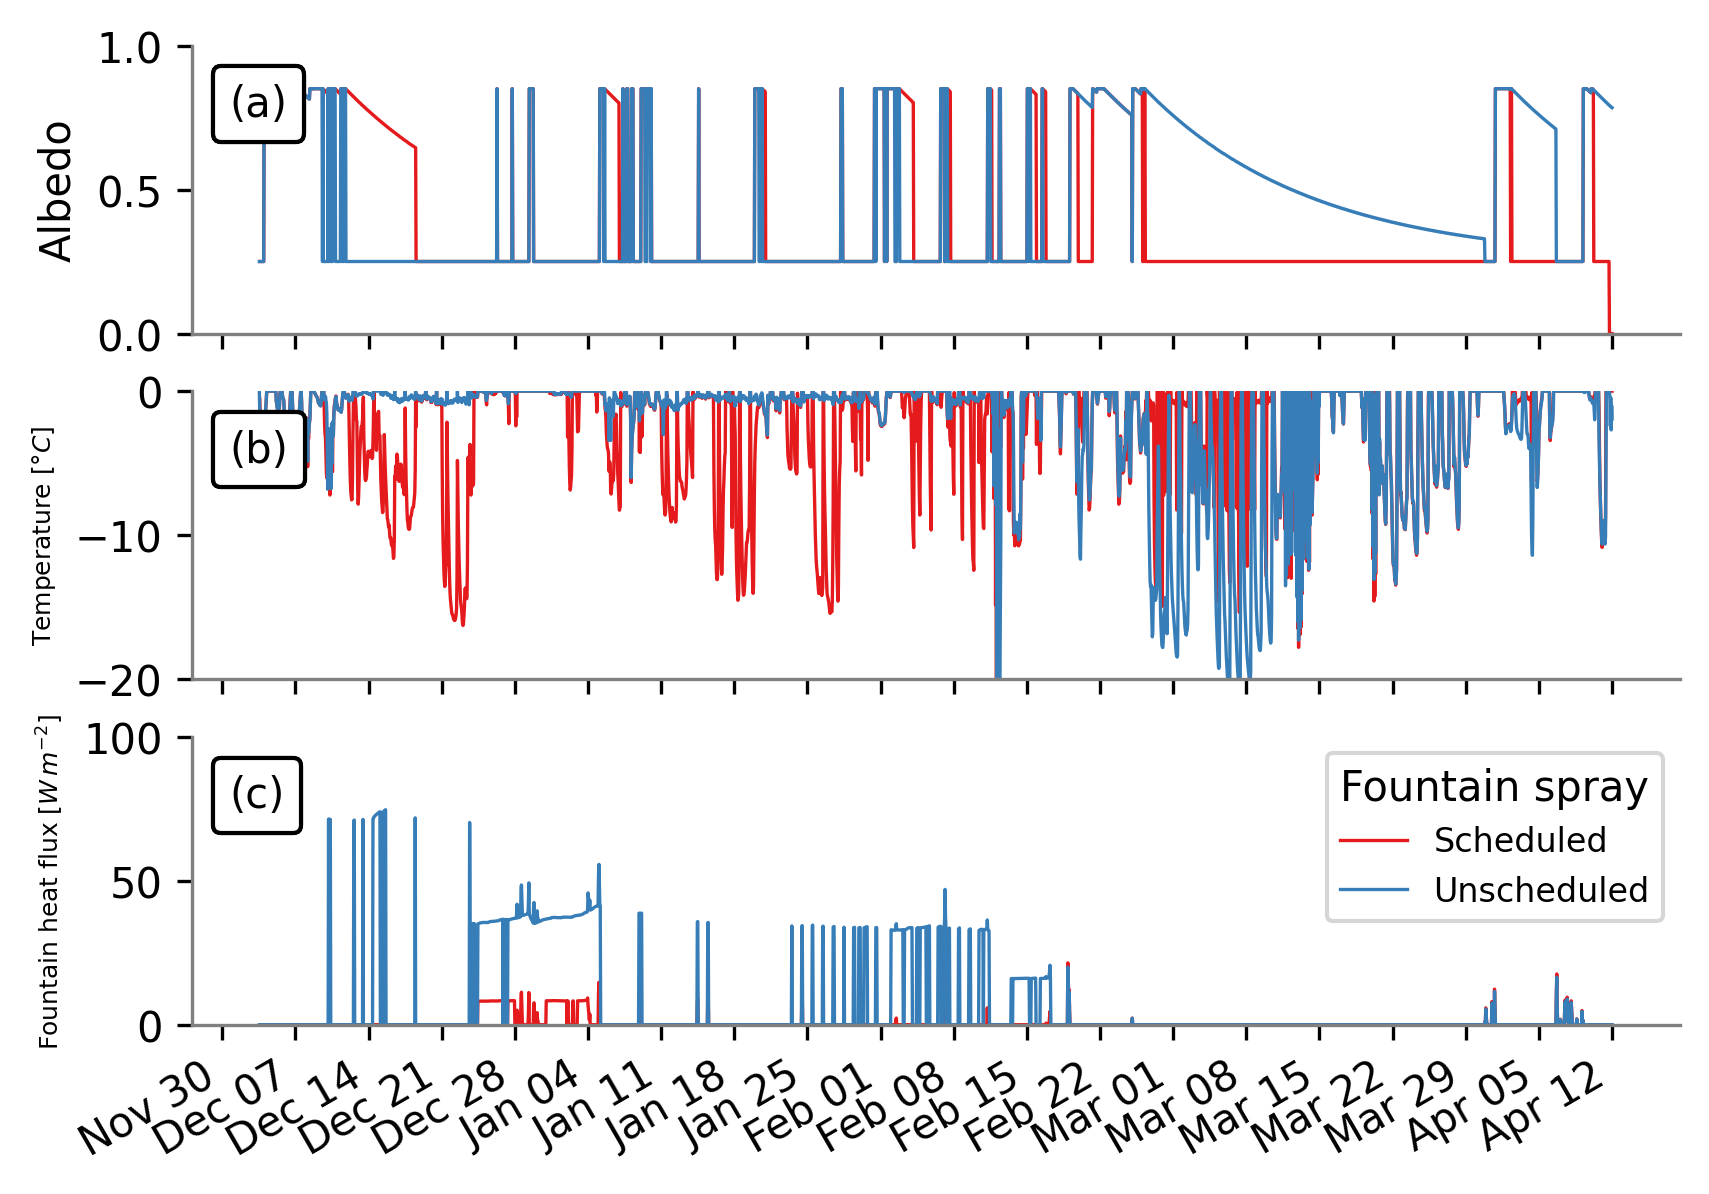
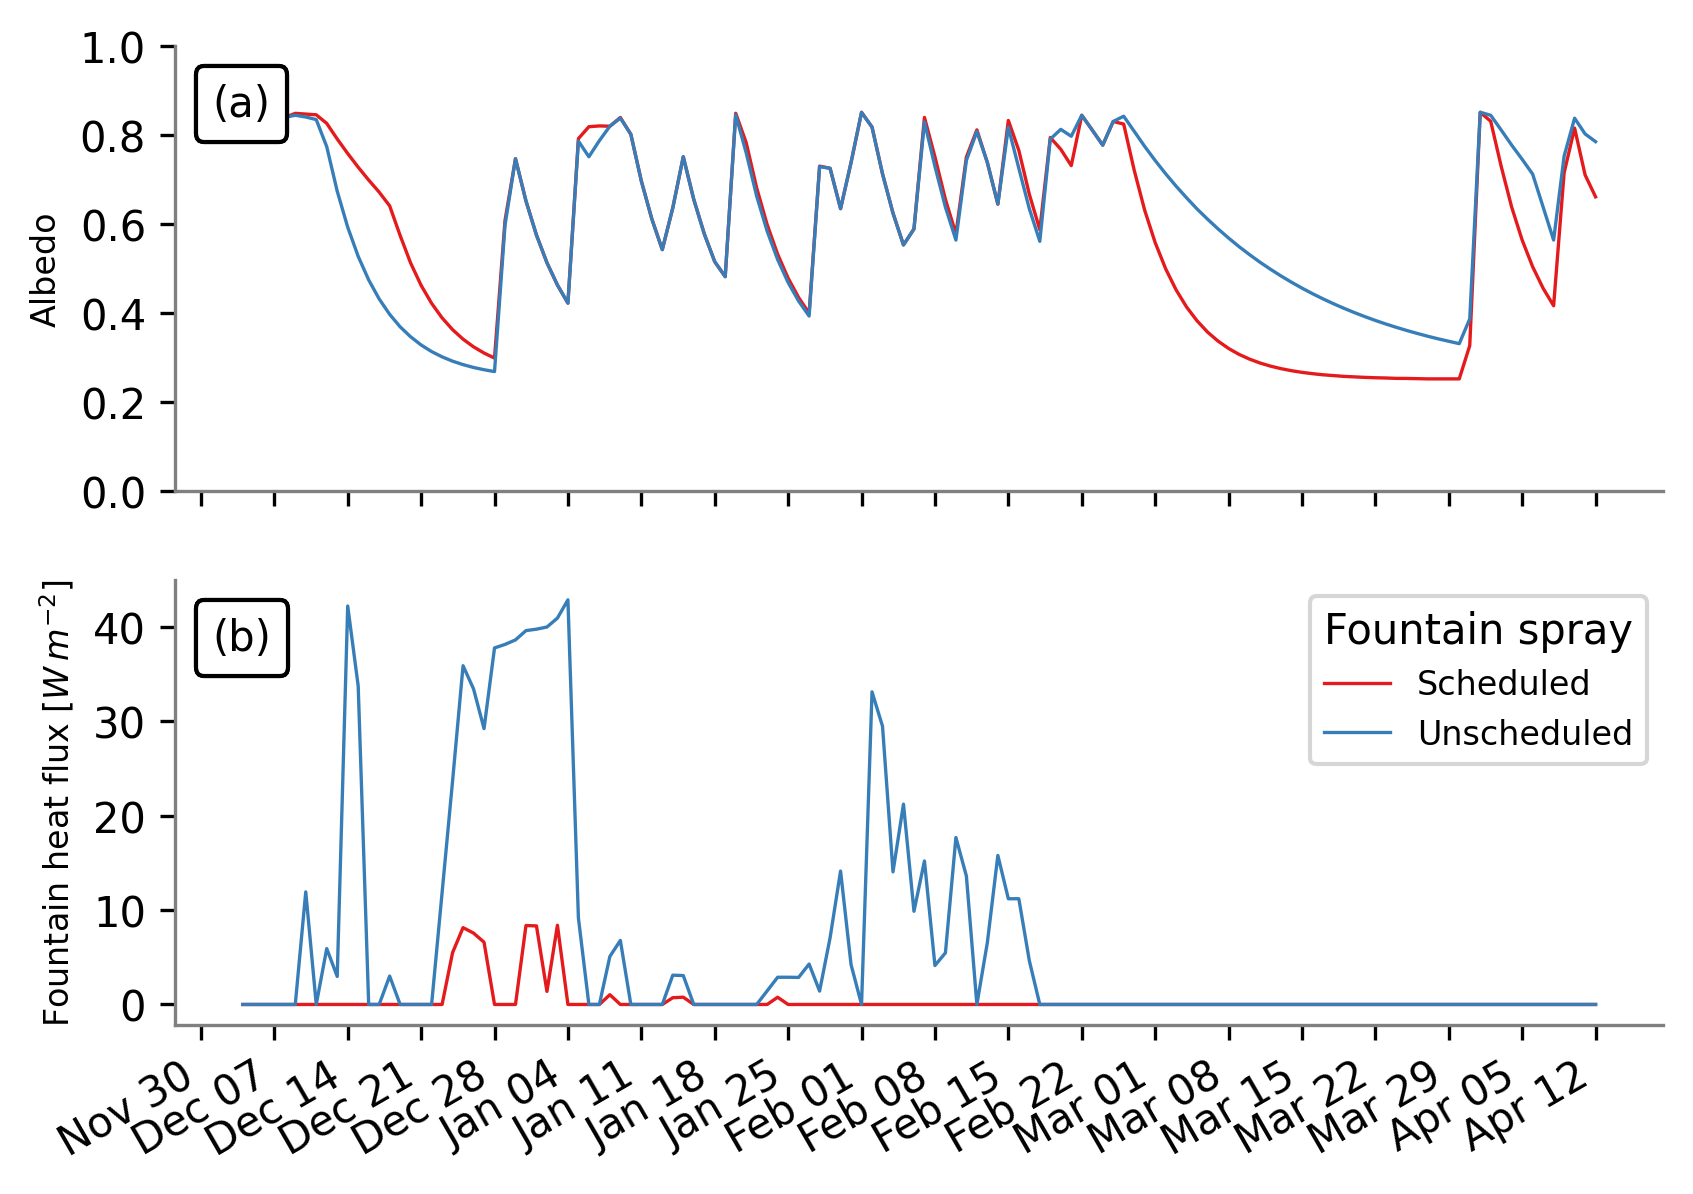
Discussion update

diff --git a/tech.tex b/tech.tex
@@ -141,7 +141,7 @@ input and several control parameters, which could be tested and controlled via a
 
 Air temperature, relative humidity, wind speed, pressure, longwave, shortwave direct and diffuse radiation are
 required to calculate the surface energy balance of an AIR (see Fig. \ref{fig:aws}). The construction period
-starts when the fountain was first switched on and ends on the AIR melts completely. These two dates are denoted
+starts when the fountain was first switched on and ends when the AIR melts completely. These two dates are denoted
 as start and expiry dates henceforth.
 
 \begin{figure*}[t]
@@ -346,12 +346,10 @@ due to a rain event was equal to:
   q_{R} = \frac{\Delta M_{ppt} \cdot c_{water} \cdot T_{a}}{\Delta t \cdot A_{cone}}
 \end{equation}
 
-\subsection{Calibration}
+\subsection{Calibration and Validation}
 
-Most of the the default values of all parameters used in
-\cite{balasubramanianInfluenceMeteorologicalConditions2022} for our analysis.  
-
-\subsection{Validation}
+The model parameters were calibrated to the median values of the ranges presented in
+\cite{balasubramanianInfluenceMeteorologicalConditions2022}.
 
 We performed the validation of the model on the traditional and automated AIRs by evaluating the root mean
 squared error (RMSE) between ice volume estimates and measurements. 
@@ -389,6 +387,7 @@ Combining the above two equations we get the final discharge $Q_f$ after a heigh
 \section{Results}
 
 \subsection{Energy balance model validation}
+
 The volume estimation for the automated and traditional AIR had an RMSE of 7 $m^3$ and 5 $m^3$ with the ice
 volume observations respectively. The estimated and measured AIR ice volumes are shown in Fig.
 \ref{fig:validation}.
@@ -401,30 +400,24 @@ volume observations respectively. The estimated and measured AIR ice volumes are
 
 \subsection{Scheduled discharge rate estimation}
 
-We found that the simplified energy balance model estimated the freezing rate of the unscheduled fountain with a correlation higher than 0.5 and RMSE less than 1 $l/min$ for both the ICV and WUE objectives. The ICV scheduled fountain overestimated the freezing rate 90 \% of the construction duration whereas the WUE
-scheduled fountain underestimated the freezing rate 80 \% of the construction duration as shown in Fig.
-\ref{fig:freezing_rate}.
-
-% \begin{figure*}[t]
-% \includegraphics[width=12cm]{Figures/freezing_rate_corr.png}
-% \caption{Scheduled discharge rate estimates of the simplified energy balance model with the WUE and ICV
-% assumptions compared with the validated freezing rate of the full energy balance model.}
-% \label{fig:freezing_rate}
-% \end{figure*}
+We found that the simplified energy balance model estimated the freezing rate of the unscheduled fountain with a
+correlation around 0.6 and a RMSE less than 0.6 $l/min$ and 1.6  $l/min$ for the WUE and ICV objectives
+respectively. The ICV scheduled fountain overestimated the freezing rate 90 \% of the construction duration
+whereas the WUE scheduled fountain underestimated the freezing rate 80 \% of the construction duration.
 
 \subsection{Comparison of AIR construction strategies}
 
 \begin{figure*}[t]
 \includegraphics[width=12cm]{Figures/dis_processes.png}
-\caption{Scheduled discharge rate estimates of the simplified energy balance model with the WUE and ICV
-assumptions compared with the validated freezing rate of the full energy balance model.}
+\caption{Surface albedo (a) and fountain discharge heat flux (b) showed significant variations between the two
+  AIRS due to the differences in their discharge rate.}
 \label{fig:dis_processes}
 \end{figure*}
 
 Table \ref{tab:mb} shows how the different fountain scheduling strategies influence the mass and energy balance
 of the respective AIR. The largest difference between the mass balance of the unscheduled and scheduled
 fountains were found to be in the fountain discharge input and fountain wastewater output. This was expected
-since the unscheduled fountain's discharge duration and quantity were ? and ? times higher respectively.
+since the unscheduled fountain's discharge duration was 2 times higher.
 
 To understand how the different scheduling strategies influence the rest of the mass balance output, we discuss
 the influence of fountain discharge on the surface mass and energy balance. During fountain spray, the AIR
@@ -525,40 +518,57 @@ occuring due to the fountain was equivalent to 1.9 meters of water head.
 
 \subsection{Fountain freezing events}
 
-Both the scheduled and the unscheduled fountain were interrupted by a freezing event. However, the cause of the
-freezing event was different in each of the cases. For the scheduled fountain, improper drainage of water
-triggered a pipeline freezing event in one section of the pipe. For the unscheduled fountain, a fountain
-freezing event froze the whole pipe. This fountain freezing event was triggered almost immediately after the
-fountain height was increased even though the fountain discharge had attained the critical discharge rate as
-shown in Fig. \ref{fig:aws}. Therefore both the freezing events could have been prevented by ensuring proper
-drainage and avoiding fountain height increase events after attaining critical discharge rate. 
+The unscheduled fountain was interrupted by a fountain freezing event. This fountain freezing event was
+triggered almost immediately after the fountain height was increased even though the fountain discharge had
+attained the critical discharge rate as shown in Fig. \ref{fig:aws}. Therefore, the freezing event could have
+been prevented by ensuring proper drainage and avoiding fountain height increase events after attaining critical
+discharge rate. 
 
-\subsection{Fountain design}
+% \subsection{Fountain design}
 
-The unscheduled fountain was observed to produce bigger water droplets with different trajectories compared to
-the scheduled fountain. This behaviour was due to the different engineering design of the two fountains as shown
-in Fig. ?.
+% The unscheduled fountain was observed to produce bigger water droplets with different trajectories compared to
+% the scheduled fountain. This behaviour was due to the different engineering design of the two fountains as shown
+% in Fig. ?.
 
-\subsection{Simulations of scheduled fountains}
+\subsection{Benefits of scheduled fountains}
 
 We evaluate the benefits of the automated construction strategies by comparing them with the traditional
-construction strategies used in the IN21 and CH21 locations presented in
-\cite{balasubramanianInfluenceMeteorologicalConditions2022}. The difference in water use efficiency and maximum
-ice volumes expected between unscheduled and scheduled fountains in the three locations are presented in Fig.
-\ref{fig:wue}.
+construction strategies using the water use efficiency and maximum ice volume metrics. 
+
+The difference in water use efficiency and maximum ice volumes expected between unscheduled and scheduled
+fountains in the two locations across two winters are presented in Fig. \ref{fig:wue}. Four experimental values
+(highlighted by white circles) are shown together with five simulated values (highlighted by grey circles) . The
+ICV and WUE versions of the simplified energy balance model were used to schedule the fountains of the simulated
+AIRs. The experimental values were taken from the automated and traditional AIRs constructed in the winter of
+2021-2022 in Guttannen (CH22) and the rest of the values were of the Indian (IN21) and Swiss (CH21) AIR built in
+the winter of 2020-21 using traditional construction strategies presented in
+\cite{balasubramanianInfluenceMeteorologicalConditions2022}. 
+
+The maximum ice volumes of IN21 is much higher than the CH21 and CH22 AIRs due to the meteorological differences
+between the two locations. Compared to the traditional AIR of each location, the maximum ice volume of other
+automated AIRs increases and decreases depending on whether the ICV scheduling strategy or the WUE scheduling
+strategy is used. 
+
+The water use efficiencies of all the traditional AIRs are below 20 \%. In general, the water use efficiencies
+increase more than two fold when the ICV or WUE fountain scheduling strategy is applied in both the locations.  
+
+Between the WUE and ICV strategies, 
+
 
 \begin{figure*}[t]
 \includegraphics[width=12cm]{Figures/wue.png}
-\caption{The maximum ice volume and water use efficiency estimated for the different locations and construction
-strategies used}
+
+\caption{The maximum ice volume and water use efficiency estimated for AIRs constructed in different locations
+(represented by colours) with different fountain scheduling strategies (represented by symbols). Experimental
+values are highlighted by white circles and simulated values are highlighted by grey circles.  }
+
 \label{fig:wue}
 \end{figure*}
 
 
+% \subsection{Recommended construction strategy}
 
-\subsection{Recommended construction strategy}
-
-Fix fountain height, make multiple AIRs
+% Fix fountain height, make multiple AIRs
 
 \conclusions
 
